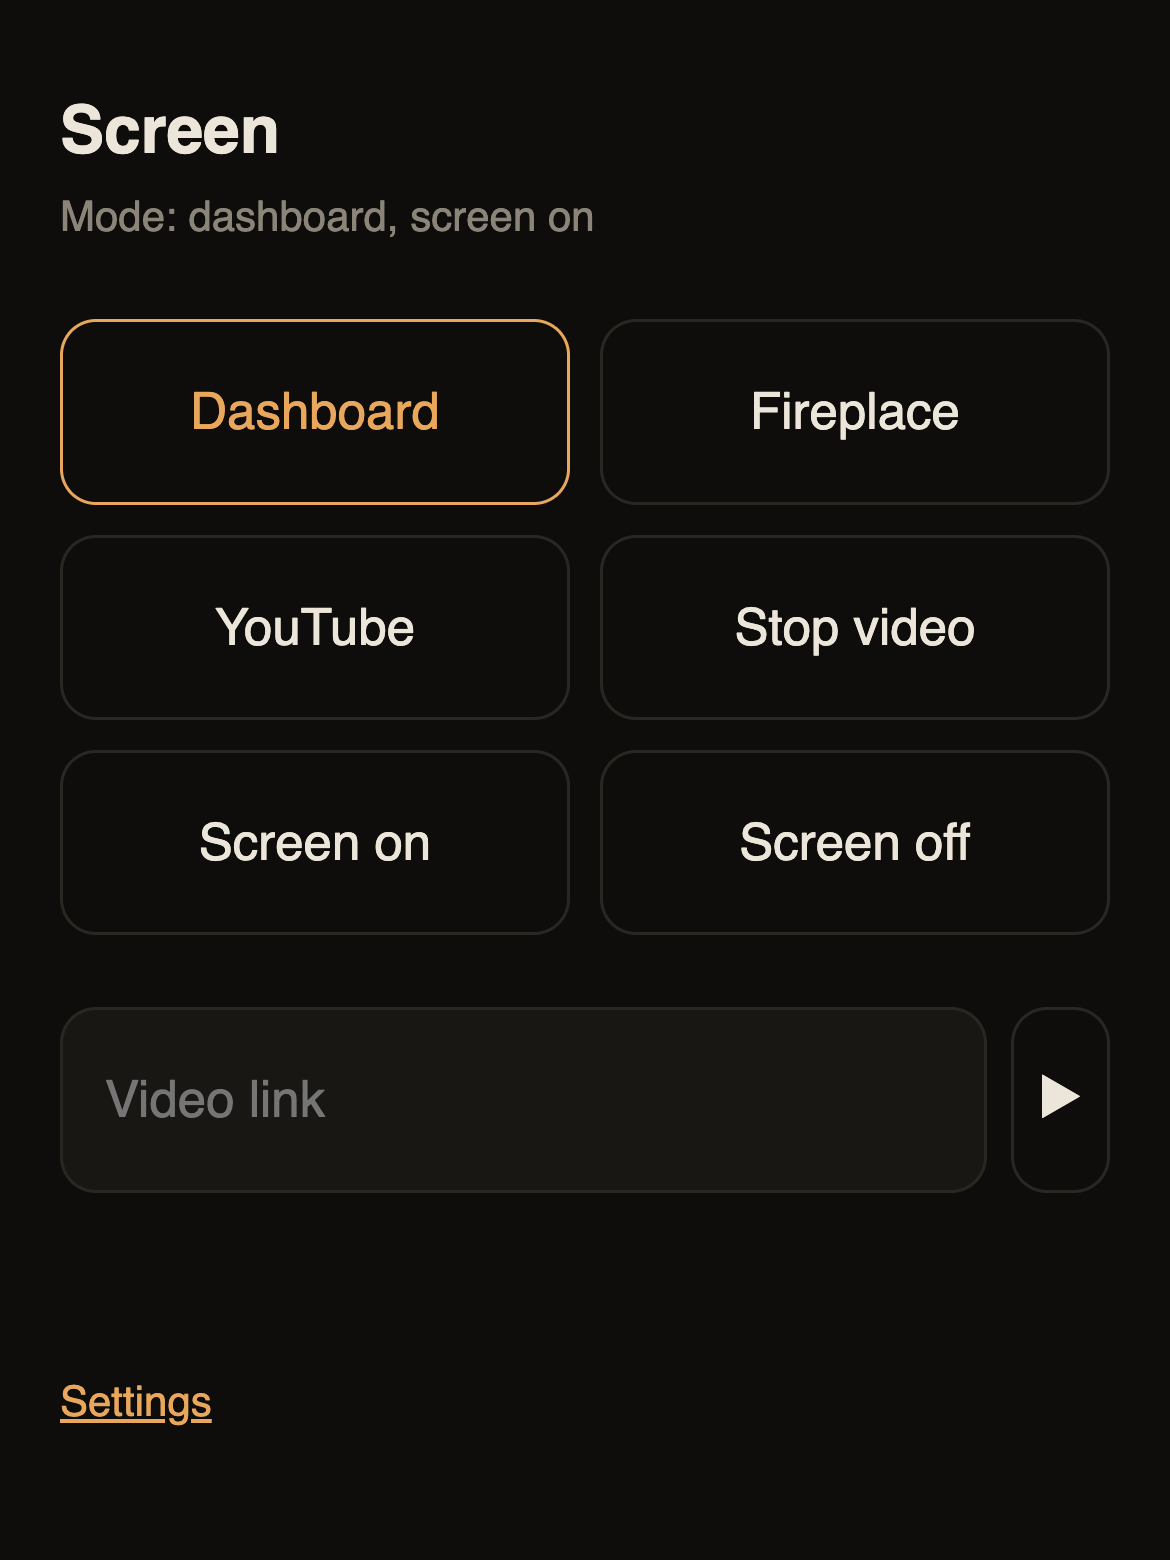
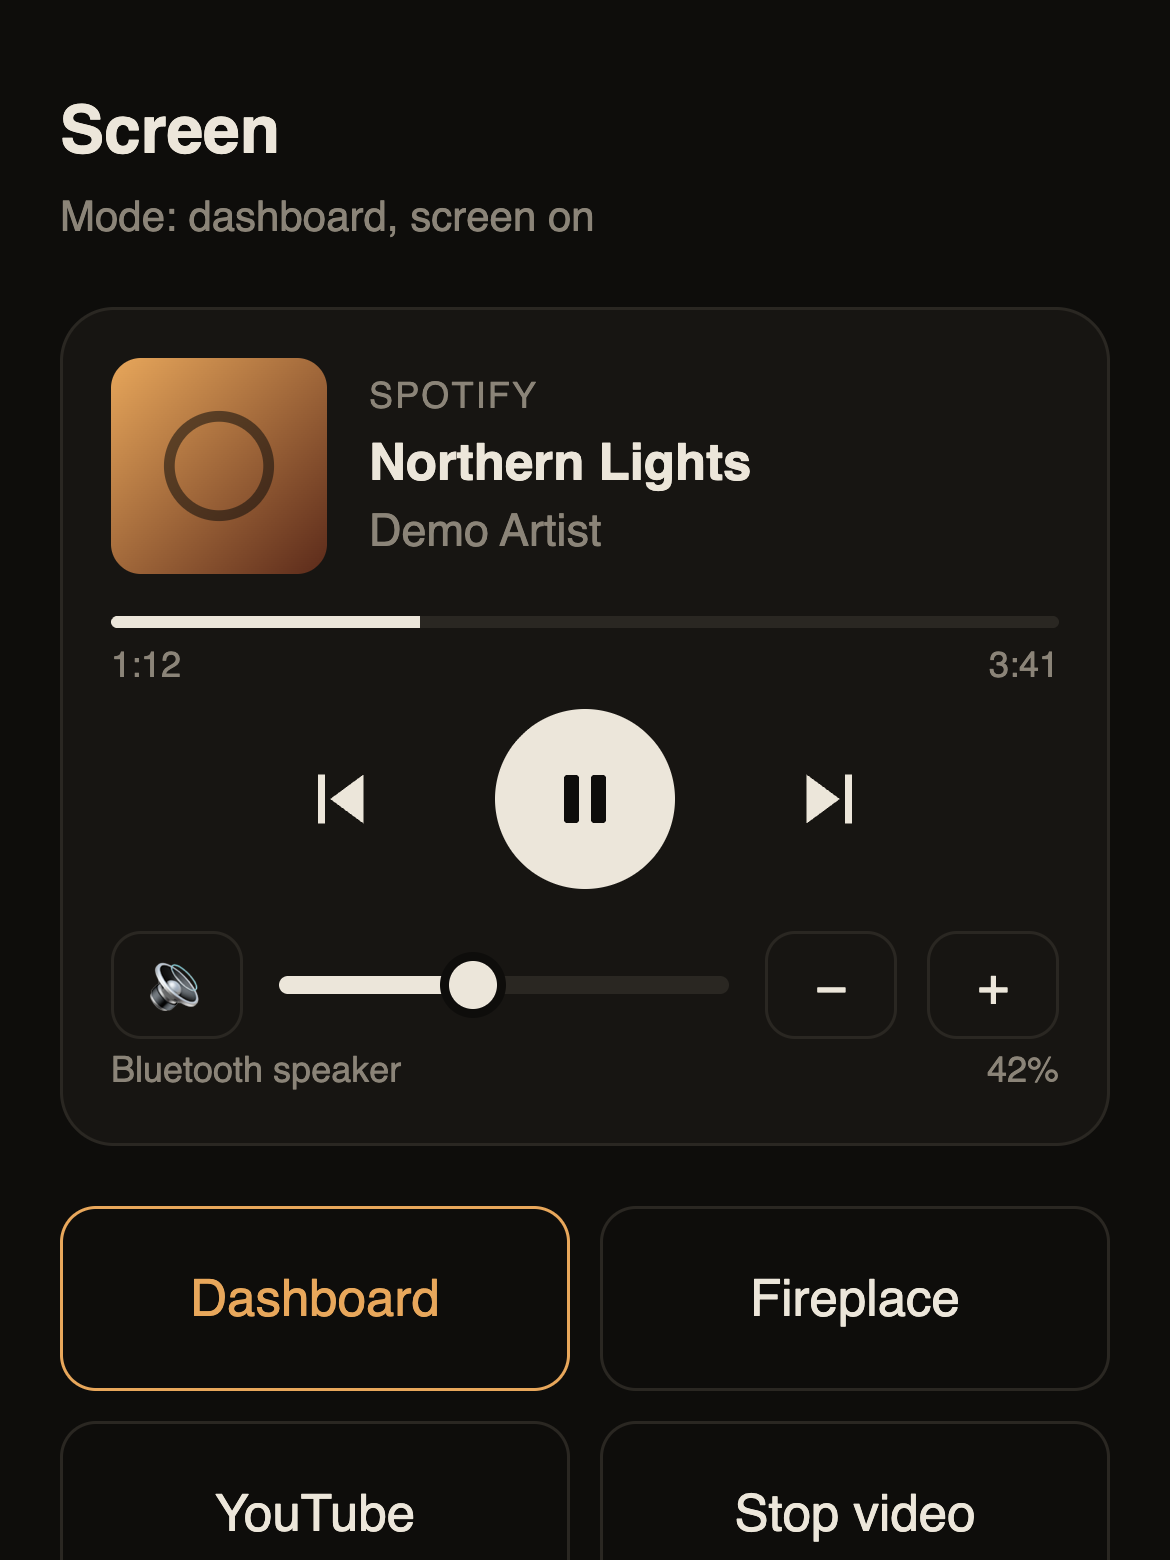
Remote: Spotify now playing, prev/play/next, speaker volume; HomeKit volume keys

diff --git a/screen/control.html b/screen/control.html
@@ -2,26 +2,86 @@
 <html lang="en">
 <head>
 <meta charset="utf-8">
-<meta name="viewport" content="width=device-width, initial-scale=1">
+<meta name="viewport" content="width=device-width, initial-scale=1, viewport-fit=cover">
+<meta name="theme-color" content="#0e0d0b">
+<meta name="apple-mobile-web-app-capable" content="yes">
 <title>homelab screen</title>
 <style>
-  :root { --bg:#0e0d0b; --fg:#ece6da; --dim:#8b8478; --line:#2a2722; --warm:#e8a75b; }
-  * { box-sizing:border-box; }
-  body { margin:0; background:var(--bg); color:var(--fg); font:17px/1.4 -apple-system, "Noto Sans", sans-serif; padding:28px 20px; max-width:480px; margin:auto; }
+  :root { --bg:#0e0d0b; --fg:#ece6da; --dim:#8b8478; --line:#2a2722; --tile:#171512; --warm:#e8a75b; }
+  * { box-sizing:border-box; -webkit-tap-highlight-color:transparent; }
+  body { margin:0 auto; background:var(--bg); color:var(--fg); font:17px/1.4 -apple-system, "Noto Sans", sans-serif;
+         padding:28px 20px calc(28px + env(safe-area-inset-bottom)); max-width:480px; }
   h1 { font-size:22px; font-weight:600; margin:0 0 4px; }
-  p { color:var(--dim); margin:0 0 24px; font-size:14px; }
+  p { color:var(--dim); margin:0 0 20px; font-size:14px; }
   .grid { display:grid; grid-template-columns:1fr 1fr; gap:10px; }
-  button { background:none; border:1px solid var(--line); color:var(--fg); font:inherit; padding:18px 8px; border-radius:12px; }
+  button { background:none; border:1px solid var(--line); color:var(--fg); font:inherit; padding:18px 8px; border-radius:12px; cursor:pointer; }
   button:active { background:var(--line); }
   button.on { border-color:var(--warm); color:var(--warm); }
-  form { display:flex; gap:8px; margin:24px 0 8px; }
-  input { flex:1; min-width:0; background:#191714; border:1px solid var(--line); color:var(--fg); font:inherit; padding:14px; border-radius:12px; }
+  form { display:flex; gap:8px; margin:20px 0 8px; }
+  input[type=url] { flex:1; min-width:0; background:#191714; border:1px solid var(--line); color:var(--fg); font:inherit; padding:14px; border-radius:12px; }
   #msg { color:var(--dim); font-size:14px; min-height:20px; margin-top:12px; }
+  a { color:var(--warm); }
+
+  /* now playing */
+  .np { background:var(--tile); border:1px solid var(--line); border-radius:18px; padding:16px; margin:0 0 20px; }
+  .np-top { display:flex; gap:14px; align-items:center; }
+  .cover { width:72px; height:72px; border-radius:10px; background:#2a2722 center/cover no-repeat; flex:none; }
+  .meta { min-width:0; }
+  .t { font-weight:600; white-space:nowrap; overflow:hidden; text-overflow:ellipsis; }
+  .a { color:var(--dim); font-size:15px; white-space:nowrap; overflow:hidden; text-overflow:ellipsis; }
+  .src { color:var(--dim); font-size:12px; letter-spacing:.06em; text-transform:uppercase; margin-bottom:2px; }
+  .bar { height:4px; border-radius:2px; background:var(--line); margin:14px 0 4px; overflow:hidden; }
+  .bar i { display:block; height:100%; width:0; background:var(--fg); transition:width .5s linear; }
+  .times { display:flex; justify-content:space-between; color:var(--dim); font-size:12px; font-variant-numeric:tabular-nums; }
+  .transport { display:flex; justify-content:center; align-items:center; gap:28px; margin:6px 0 4px; }
+  .transport button { border:none; padding:10px; border-radius:50%; display:grid; place-items:center; }
+  .transport .pp { width:60px; height:60px; background:var(--fg); }
+  .transport .pp svg { fill:var(--bg); }
+  .transport svg { fill:var(--fg); }
+  .idle { color:var(--dim); font-size:15px; display:flex; justify-content:space-between; align-items:center; gap:10px; }
+  .idle button { padding:10px 14px; font-size:15px; }
+
+  .vol { display:flex; align-items:center; gap:10px; margin-top:14px; }
+  .vol button { padding:8px 12px; border-radius:10px; font-size:18px; line-height:1; min-width:44px; }
+  .vol button.muted { color:var(--warm); border-color:var(--warm); }
+  input[type=range] { flex:1; -webkit-appearance:none; appearance:none; height:28px; background:none; }
+  input[type=range]::-webkit-slider-runnable-track { height:6px; border-radius:3px; background:linear-gradient(to right, var(--fg) var(--p, 0%), var(--line) var(--p, 0%)); }
+  input[type=range]::-moz-range-track { height:6px; border-radius:3px; background:var(--line); }
+  input[type=range]::-moz-range-progress { height:6px; border-radius:3px; background:var(--fg); }
+  input[type=range]::-webkit-slider-thumb { -webkit-appearance:none; width:22px; height:22px; border-radius:50%; background:var(--fg); margin-top:-8px; border:3px solid var(--bg); }
+  input[type=range]::-moz-range-thumb { width:18px; height:18px; border-radius:50%; background:var(--fg); border:3px solid var(--bg); }
+  [hidden] { display:none !important; }
+  .vlabel { color:var(--dim); font-size:12px; margin-top:2px; display:flex; justify-content:space-between; }
 </style>
 </head>
 <body>
 <h1>Screen</h1>
 <p id="state">…</p>
+
+<section class="np" aria-label="Now playing">
+  <div id="np-on" hidden>
+    <div class="np-top">
+      <div class="cover" id="cover"></div>
+      <div class="meta"><div class="src">Spotify</div><div class="t" id="title"></div><div class="a" id="artist"></div></div>
+    </div>
+    <div class="bar"><i id="prog"></i></div>
+    <div class="times"><span id="pos"></span><span id="dur"></span></div>
+    <div class="transport">
+      <button data-s="prev" aria-label="Previous"><svg width="28" height="28" viewBox="0 0 24 24"><path d="M6 5h2v14H6zM9.5 12 19 5v14z"/></svg></button>
+      <button data-s="playpause" class="pp" aria-label="Play or pause" id="pp"></button>
+      <button data-s="next" aria-label="Next"><svg width="28" height="28" viewBox="0 0 24 24"><path d="M16 5h2v14h-2zM5 5l9.5 7L5 19z"/></svg></button>
+    </div>
+  </div>
+  <div id="np-off" class="idle"><span>Nothing playing on Spotify</span><button data-a="mode/spotify">Open player</button></div>
+  <div class="vol">
+    <button id="mute" aria-label="Mute">🔈</button>
+    <input type="range" id="vol" min="0" max="100" step="1" value="0" aria-label="Volume">
+    <button data-step="-0.05" aria-label="Volume down">−</button>
+    <button data-step="0.05" aria-label="Volume up">+</button>
+  </div>
+  <div class="vlabel"><span id="sink"></span><span id="vpct"></span></div>
+</section>
+
 <div class="grid">
   <button data-a="mode/dashboard">Dashboard</button>
   <button data-a="mode/fireplace">Fireplace</button>
@@ -32,22 +92,72 @@
 </div>
 <form id="f"><input id="url" type="url" placeholder="Video link" required><button>▶</button></form>
 <div id="msg"></div>
-<p style="margin-top:28px"><a href="/settings" style="color:var(--warm)">Settings</a></p>
+<p style="margin-top:28px"><a href="/settings">Settings</a></p>
 <script>
-const msg = t => document.getElementById("msg").textContent = t;
+const $ = id => document.getElementById(id);
+const msg = t => $("msg").textContent = t;
+const PLAY = '<svg width="26" height="26" viewBox="0 0 24 24"><path d="M7 4l13 8-13 8z"/></svg>';
+const PAUSE = '<svg width="24" height="24" viewBox="0 0 24 24"><rect x="5" y="4" width="5" height="16" rx="1"/><rect x="14" y="4" width="5" height="16" rx="1"/></svg>';
+const toSec = t => (t || "").split(":").reduce((a, v) => a * 60 + (+v || 0), 0);
+
+async function post(path, body) {
+  const r = await fetch("/api/" + path, {method: "POST", body, headers: body ? {"Content-Type": "application/json"} : {}});
+  return r.json();
+}
 async function call(path, body) {
-  const r = await fetch("/api/" + path, {method:"POST", body});
-  const j = await r.json(); msg(j.error ? "Error: " + j.error : "Done"); refresh();
+  const j = await post(path, body); msg(j.error ? "Error: " + j.error : "Done"); refresh();
 }
 async function refresh() {
-  const s = (await (await fetch("/api/stats")).json()).state;
-  document.getElementById("state").textContent =
-    "Mode: " + s.mode + (s.playing ? ", playing a video" : "") + ", screen " + s.screen;
-  document.querySelectorAll("[data-a^=mode]").forEach(b => b.classList.toggle("on", b.dataset.a === "mode/" + s.mode));
+  try {
+    const s = (await (await fetch("/api/stats")).json()).state;
+    $("state").textContent = "Mode: " + s.mode + (s.playing ? ", playing a video" : "") + ", screen " + s.screen;
+    document.querySelectorAll("[data-a^=mode]").forEach(b => b.classList.toggle("on", b.dataset.a === "mode/" + s.mode));
+  } catch (e) {}
 }
+
+/* Spotify */
+let spot = {};
+async function spotify() {
+  try { spot = await (await fetch("/api/spotify")).json(); } catch (e) { spot = {}; }
+  $("np-on").hidden = !spot.active; $("np-off").hidden = !!spot.active;
+  if (!spot.active) return;
+  $("cover").style.backgroundImage = spot.cover ? `url("${spot.cover.replace(/"/g, "")}")` : "none";
+  $("title").textContent = spot.title || ""; $("artist").textContent = spot.artists || "";
+  $("pp").innerHTML = spot.playing ? PAUSE : PLAY;
+  $("pos").textContent = spot.position || ""; $("dur").textContent = spot.duration || "";
+  const d = toSec(spot.duration); $("prog").style.width = d ? Math.min(100, toSec(spot.position) / d * 100) + "%" : "0";
+}
+document.querySelectorAll("[data-s]").forEach(b => b.onclick = async () => {
+  if (b.dataset.s === "playpause") { spot.playing = !spot.playing; $("pp").innerHTML = spot.playing ? PAUSE : PLAY; }
+  await post("spotify/" + b.dataset.s); setTimeout(spotify, 400);
+});
+
+/* volume */
+let dragging = false, sendTimer = 0;
+function showVol(v) {
+  if (v.volume == null) return;
+  const p = Math.round(v.volume * 100);
+  if (!dragging) $("vol").value = p;
+  $("vol").style.setProperty("--p", $("vol").value + "%");
+  $("vpct").textContent = v.muted ? "muted" : p + "%";
+  $("sink").textContent = v.sink || "";
+  $("mute").textContent = v.muted ? "🔇" : p < 34 ? "🔈" : p < 67 ? "🔉" : "🔊";
+  $("mute").classList.toggle("muted", !!v.muted);
+}
+async function volume() { try { showVol(await (await fetch("/api/volume")).json()); } catch (e) {} }
+$("vol").oninput = () => {
+  dragging = true; $("vol").style.setProperty("--p", $("vol").value + "%"); $("vpct").textContent = $("vol").value + "%";
+  clearTimeout(sendTimer);
+  sendTimer = setTimeout(async () => showVol(await post("volume", JSON.stringify({value: $("vol").value / 100}))), 80);
+};
+$("vol").onchange = () => { setTimeout(() => dragging = false, 300); };
+document.querySelectorAll("[data-step]").forEach(b => b.onclick = async () => showVol(await post("volume", JSON.stringify({step: +b.dataset.step}))));
+$("mute").onclick = async () => showVol(await post("volume/mute"));
+
 document.querySelectorAll("[data-a]").forEach(b => b.onclick = () => call(b.dataset.a));
-document.getElementById("f").onsubmit = e => { e.preventDefault(); call("play", new URLSearchParams({url: document.getElementById("url").value})); };
-refresh();
+$("f").onsubmit = e => { e.preventDefault(); call("play", new URLSearchParams({url: $("url").value})); };
+refresh(); spotify(); volume();
+setInterval(refresh, 5000); setInterval(spotify, 2000); setInterval(volume, 3000);
 </script>
 </body>
 </html>

diff --git a/screen/screenctl.py b/screen/screenctl.py
@@ -20,6 +20,8 @@ HTTP API on :8090 (LAN + Tailscale only, via ufw):
   POST /api/mode/spotify      show the web player (to log in once with the laptop keyboard)
   GET  /api/claude            latest Claude Code session transcript (for the dashboard)
   POST /api/screen/<on|off>
+  GET  /api/volume            {volume 0..1, muted, sink} of the default audio output (PipeWire)
+  POST /api/volume            value=0..1 or step=+-0.05;   POST /api/volume/mute  toggles mute
   GET  /api/config            dashboard settings (no secrets)
   GET  /settings              settings page
   GET|POST /api/settings      read / change config/settings.json and config/homelab.env (X-Settings-Token)
@@ -205,6 +207,8 @@ def press(key):
         if key == "back":
             STATE["playing"] = None
         return mpv_cmd(MPV_KEYS.get(key, ["cycle", "pause"]))
+    if key == "playpause" and STATE["mode"] in ("dashboard", "fireplace") and spotify_state().get("active"):
+        return spotify_control("playpause")   # Apple TV remote play/pause -> Spotify when it's what plays
     if STATE["mode"] == "youtube":
         if key == "back" and yt_at_root():
             return set_mode("dashboard")
@@ -440,6 +444,39 @@ def spotify_control(action):
     js(SPOT, f"document.querySelector('[data-testid=\"{SPOT_KEYS[action]}\"]').click()")
 
 
+# ---------- volume: default PipeWire sink (speaker), covers Spotify, YouTube, AirPlay ----------
+SINK = "@DEFAULT_AUDIO_SINK@"
+
+
+def volume_state():
+    out = subprocess.run(["wpctl", "get-volume", SINK], capture_output=True, text=True, timeout=5).stdout
+    m = re.search(r"Volume:\s*([\d.]+)", out)
+    name = ""
+    try:
+        ins = subprocess.run(["wpctl", "inspect", SINK], capture_output=True, text=True, timeout=5).stdout
+        n = re.search(r'node\.description = "([^"]*)"', ins) or re.search(r'node\.nick = "([^"]*)"', ins)
+        name = n.group(1) if n else ""
+    except Exception:
+        pass
+    return {"volume": float(m.group(1)) if m else None, "muted": "[MUTED]" in out, "sink": name}
+
+
+def volume_set(value=None, step=None):
+    if step is not None:
+        step = max(-0.5, min(0.5, float(step)))
+        arg = f"{abs(step):.2f}{'+' if step >= 0 else '-'}"
+    else:
+        arg = f"{max(0.0, min(1.0, float(value))):.2f}"
+    subprocess.run(["wpctl", "set-volume", "-l", "1.0", SINK, arg], timeout=5, check=True)
+    subprocess.run(["wpctl", "set-mute", SINK, "0"], timeout=5)
+    return volume_state()
+
+
+def volume_mute():
+    subprocess.run(["wpctl", "set-mute", SINK, "toggle"], timeout=5, check=True)
+    return volume_state()
+
+
 # ---------- stats ----------
 def read(path, default=""):
     try:
@@ -598,6 +635,8 @@ class H(BaseHTTPRequestHandler):
             return self.send(200, claude_feed())
         if path == "/api/spotify":
             return self.send(200, spotify_state())
+        if path == "/api/volume":
+            return self.send(200, volume_state())
         return self.send(404, {"error": "not found"})
 
     def do_POST(self):
@@ -624,6 +663,13 @@ class H(BaseHTTPRequestHandler):
                 if action not in SPOT_KEYS:
                     return self.send(400, {"error": "unknown action"})
                 spotify_control(action)
+            elif path == "/api/volume":
+                p = self.params()
+                if "step" not in p and "value" not in p:
+                    return self.send(400, {"error": "value=0..1 or step=+-0.05"})
+                return self.send(200, volume_set(p.get("value"), p.get("step")))
+            elif path == "/api/volume/mute":
+                return self.send(200, volume_mute())
             elif path == "/api/stop":
                 stop()
             elif path.startswith("/api/key/"):

diff --git a/screen/homekit.py b/screen/homekit.py
@@ -5,6 +5,8 @@ Shows up in the Apple Home app as a TV:
   power        -> screen on/off
   inputs       -> Dashboard / Fireplace / YouTube
   Remote (Control Centre) -> arrows/select/back/play-pause via screenctl
+                             (play/pause drives Spotify while the dashboard or fireplace is on)
+  iPhone volume buttons    -> speaker volume, while the Remote is open (TelevisionSpeaker)
 Talks to screenctl on 127.0.0.1:8090. Pairing state lives in ~/.local/state/homekit.
 """
 import json, logging, os, signal, urllib.request
@@ -23,8 +25,9 @@ REMOTE = {4: "up", 5: "down", 6: "left", 7: "right", 8: "select", 9: "back", 10:
 log = logging.getLogger("homekit")
 
 
-def api(path, method="POST"):
-    req = urllib.request.Request(API + path, method=method, data=b"" if method == "POST" else None)
+def api(path, method="POST", body=None):
+    data = json.dumps(body).encode() if body is not None else (b"" if method == "POST" else None)
+    req = urllib.request.Request(API + path, method=method, data=data)
     return json.load(urllib.request.urlopen(req, timeout=10))
 
 
@@ -52,12 +55,26 @@ class Display(Accessory):
             src.configure_char("IsConfigured", value=1)
             src.configure_char("CurrentVisibilityState", value=0)
             tv.add_linked_service(src)
+        # volume buttons in the Remote: relative steps on the default audio output
+        spk = self.add_preload_service("TelevisionSpeaker", ["Mute", "Active", "VolumeControlType", "VolumeSelector"])
+        spk.configure_char("Active", value=1)
+        spk.configure_char("VolumeControlType", value=1)          # relative
+        spk.configure_char("Mute", value=False, setter_callback=self.set_mute)
+        spk.configure_char("VolumeSelector", setter_callback=self.volume_step)
+        tv.add_linked_service(spk)
 
     def set_active(self, value):
         api("screen/" + ("on" if value else "off"))
 
     def set_input(self, value):
         api("mode/" + INPUTS[value - 1][1])
+
+    def volume_step(self, value):
+        api("volume", body={"step": 0.05 if value == 0 else -0.05})   # 0 = increment, 1 = decrement
+
+    def set_mute(self, value):
+        if bool(value) != bool(api("volume", "GET").get("muted")):
+            api("volume/mute")
 
     def remote_key(self, value):
         if value in REMOTE:

diff --git a/README.md b/README.md
@@ -30,7 +30,7 @@
 | **kiosk**       | Chromium `--kiosk`, driven over the DevTools protocol by `screenctl.py`           |
 | **dashboard**   | plain HTML, no framework, no build step · weather by [Open-Meteo]                 |
 | **modes**       | dashboard · fireplace · YouTube TV (cast target) · AirPlay ([UxPlay]) · mpv       |
-| **remote**      | phone page · Apple Home TV remote ([HAP-python]) · air mouse · keyboard           |
+| **remote**      | phone page (Spotify, volume, modes) · Apple TV Remote + iPhone volume keys ([HAP-python]) |
 | **proxy**       | Traefik v3, Docker labels, one `compose.yml` per app                              |
 | **ingress**     | Cloudflare Tunnel (no open ports) · Cloudflare Access in front of admin UIs       |
 | **automations** | n8n + Postgres, SSO through Cloudflare Access, MCP server for Claude Code         |
@@ -44,8 +44,8 @@
 <table>
 <tr>
 <td width="50%" valign="top">
-<img src="docs/remote.png" alt="Phone remote: dashboard, fireplace, YouTube, stop video, screen on/off, play a link">
-<p align="center"><sub><b>remote</b> · <code>:8090</code> · switch modes, play any link, screen off</sub></p>
+<img src="docs/remote.png" alt="Phone remote: Spotify now playing with previous, play/pause, next and volume, then screen modes">
+<p align="center"><sub><b>remote</b> · <code>:8090</code> · now playing, volume, modes, play any link</sub></p>
 </td>
 <td width="50%" valign="top">
 <img src="docs/settings.png" alt="Settings page: city search, coordinates, time zone, infrastructure keys">
